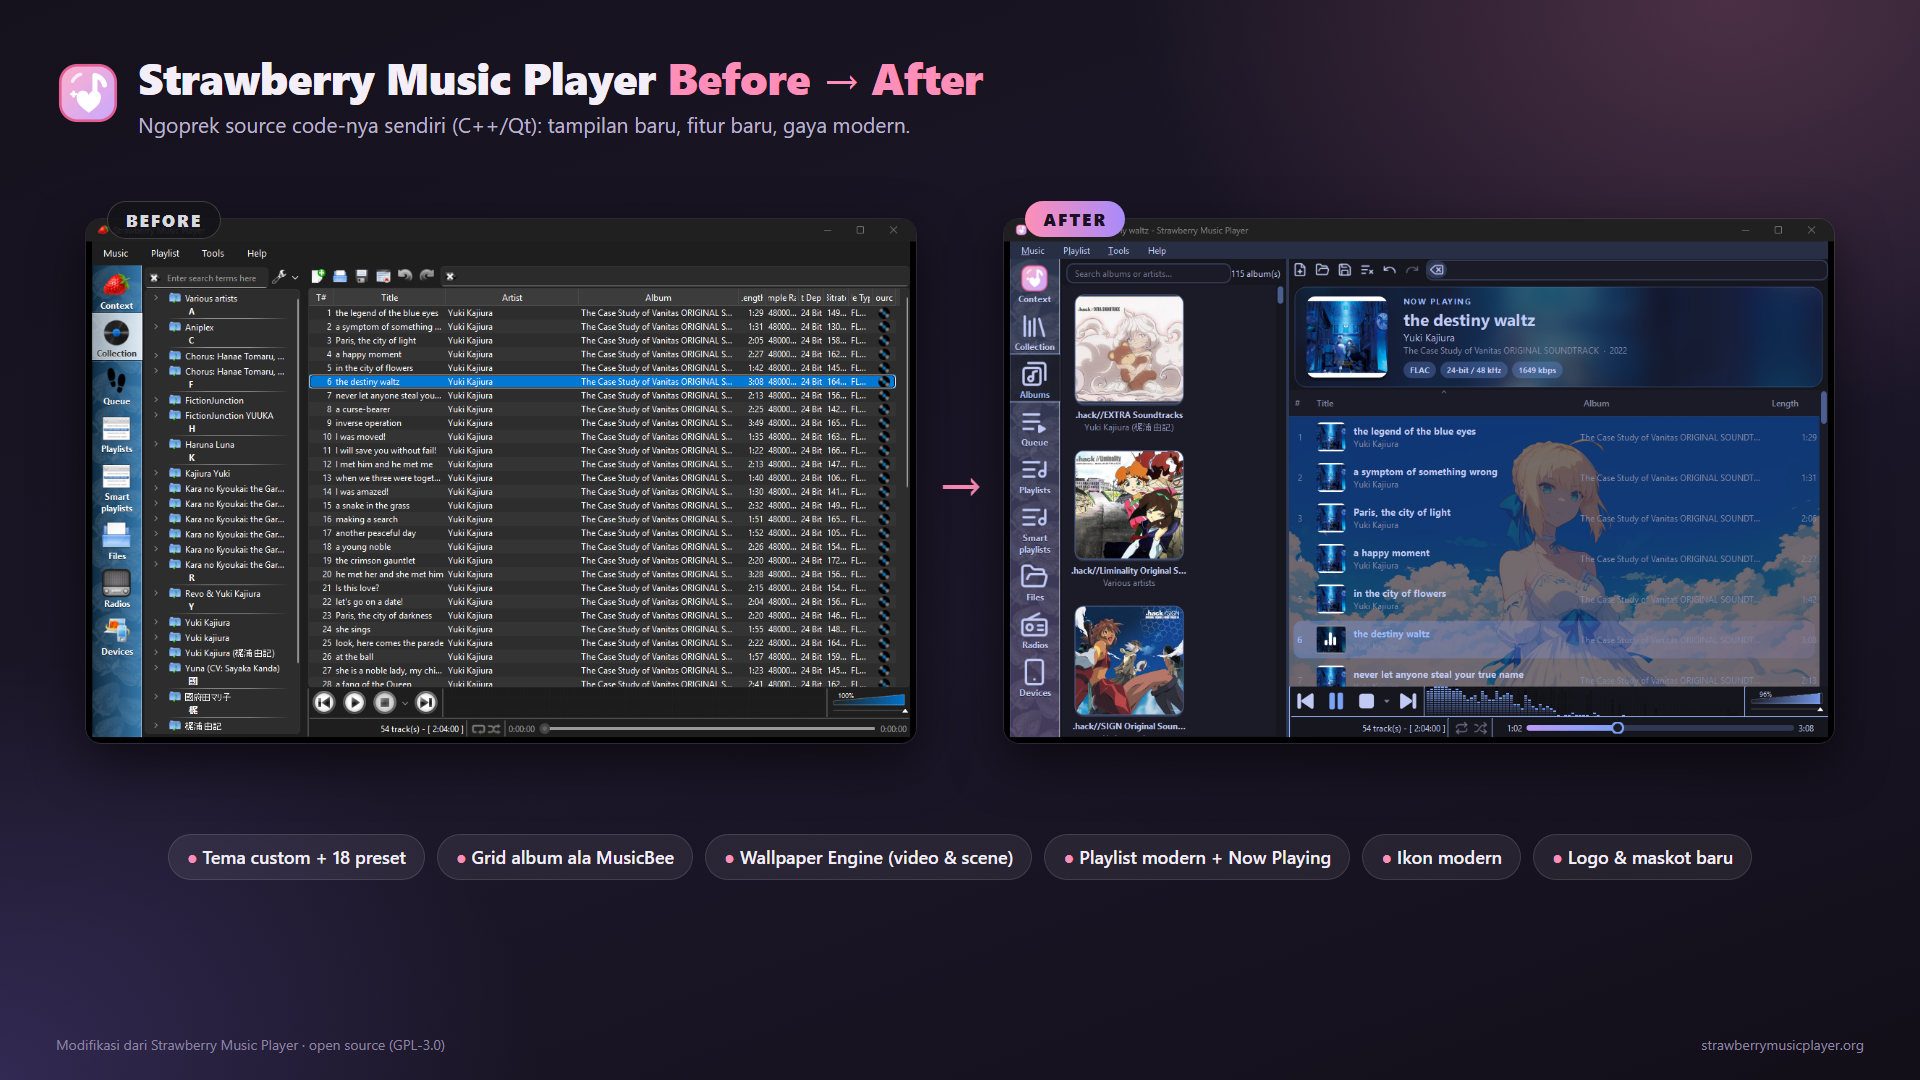
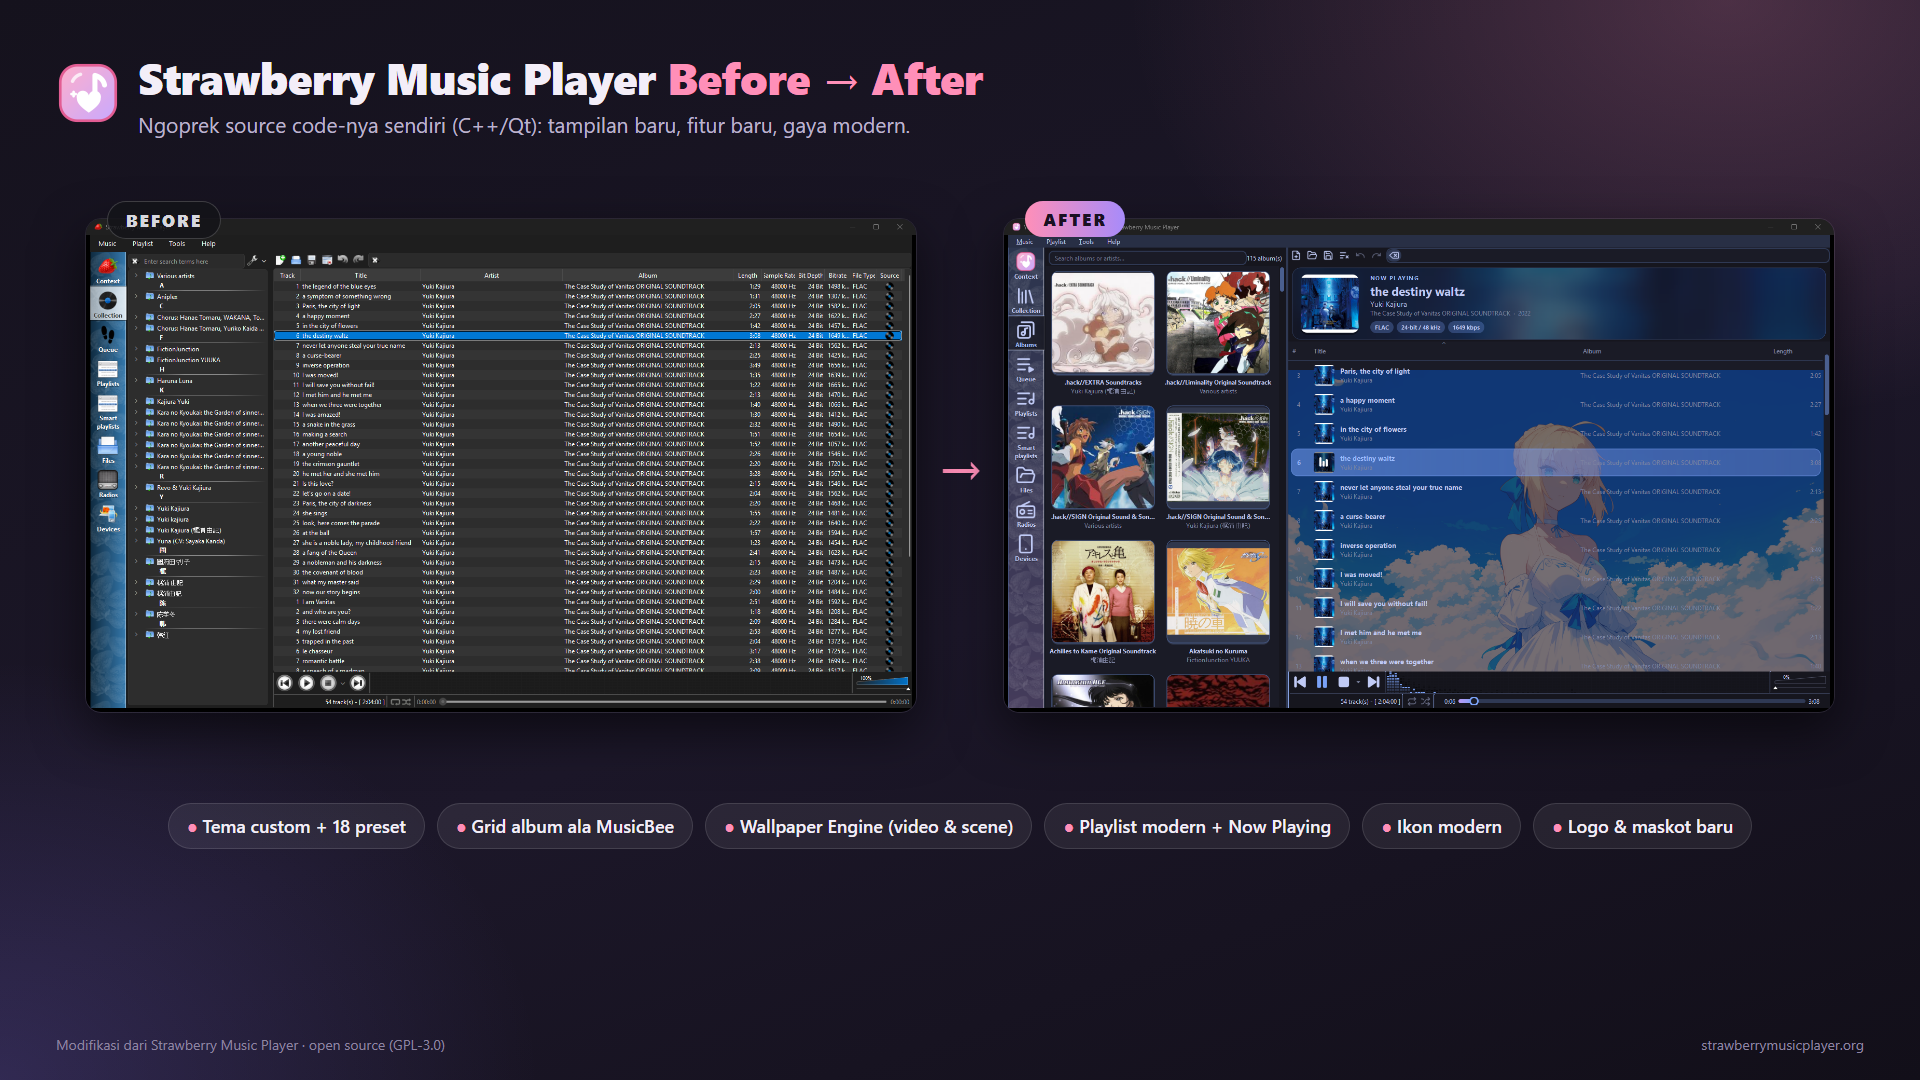
Add a one-click Windows installer
tools/windows/make-installer.bat builds an Inno Setup installer from what build.bat built: it installs per user
without asking anything (no administrator rights needed), adds Start menu and desktop shortcuts and an uninstaller,
starts the player and bundles the Visual C++ runtime. The README explains where to download it and how to build it,
and has an updated before/after screenshot.

diff --git a/README.md b/README.md
@@ -59,6 +59,18 @@ streaming services, ...) still works the same, this fork only adds on top of it.
 
 ---
 
+## :inbox_tray: Download (Windows)
+
+Grab `Stabewwy-<version>-Setup-x64.exe` from the [Releases](https://github.com/saikanov/stabewwy/releases) page and run
+it. It's a one-click installer: no questions and no administrator rights needed, it installs to
+`%LOCALAPPDATA%\Programs\Stabewwy`, adds Start menu and desktop shortcuts and starts the player.
+Uninstall it from Windows Settings → Apps like any other program.
+
+Stabewwy uses the same settings and collection database as Strawberry, so if you already use Strawberry your music and
+playlists show up right away.
+
+---
+
 ## :computer: Building on Windows
 
 Requirements (one time):
@@ -83,8 +95,12 @@ tools\windows\build.bat
 ```
 
 The first build takes a while, later builds only recompile what changed. Start `build\strawberry.exe`
-(the DLLs and plugins it needs are copied next to it). See [tools/README.md](tools/README.md) for more, including how
-to change the icons.
+(the DLLs and plugins it needs are copied next to it).
+
+To make the installer, install [Inno Setup 6](https://jrsoftware.org/isinfo.php) (`winget install JRSoftware.InnoSetup`)
+and run `tools\windows\make-installer.bat`, it ends up in `build\installer`.
+
+See [tools/README.md](tools/README.md) for more, including how to change the icons.
 
 On Linux and macOS the regular Strawberry build instructions apply (`cmake -S . -B build && cmake --build build`),
 the Wallpaper Engine picker is Windows only.

diff --git a/tools/README.md b/tools/README.md
@@ -16,6 +16,17 @@ Requirements (one time):
 Then run `tools\windows\build.bat`. The first build takes a while, later ones only rebuild what changed. It works
 while Strawberry is running (the old exe is moved aside), the new version is used from the next start.
 
+## windows/make-installer.bat
+
+Makes the one-click installer `build\installer\Stabewwy-<version>-Setup-x64.exe` from what `build.bat` built, using
+`windows/installer.iss`. Needs [Inno Setup 6](https://jrsoftware.org/isinfo.php) (`winget install JRSoftware.InnoSetup`).
+
+- `tools\windows\make-installer.bat` uses `1.0.0-<git commit>` as version, or pass one: `tools\windows\make-installer.bat 1.1.0`.
+- The installer installs per user to `%LOCALAPPDATA%\Programs\Stabewwy` without asking anything (no administrator
+  rights needed), adds Start menu and desktop shortcuts and an uninstaller, and starts the player.
+- The Visual C++ runtime from the Visual Studio Build Tools is bundled next to the exe, so it also runs on PCs without
+  the Visual C++ Redistributable.
+
 ## art/
 
 The icons, logo and mascot are drawn as SVG in these pages and rendered to PNG with headless Microsoft Edge.
